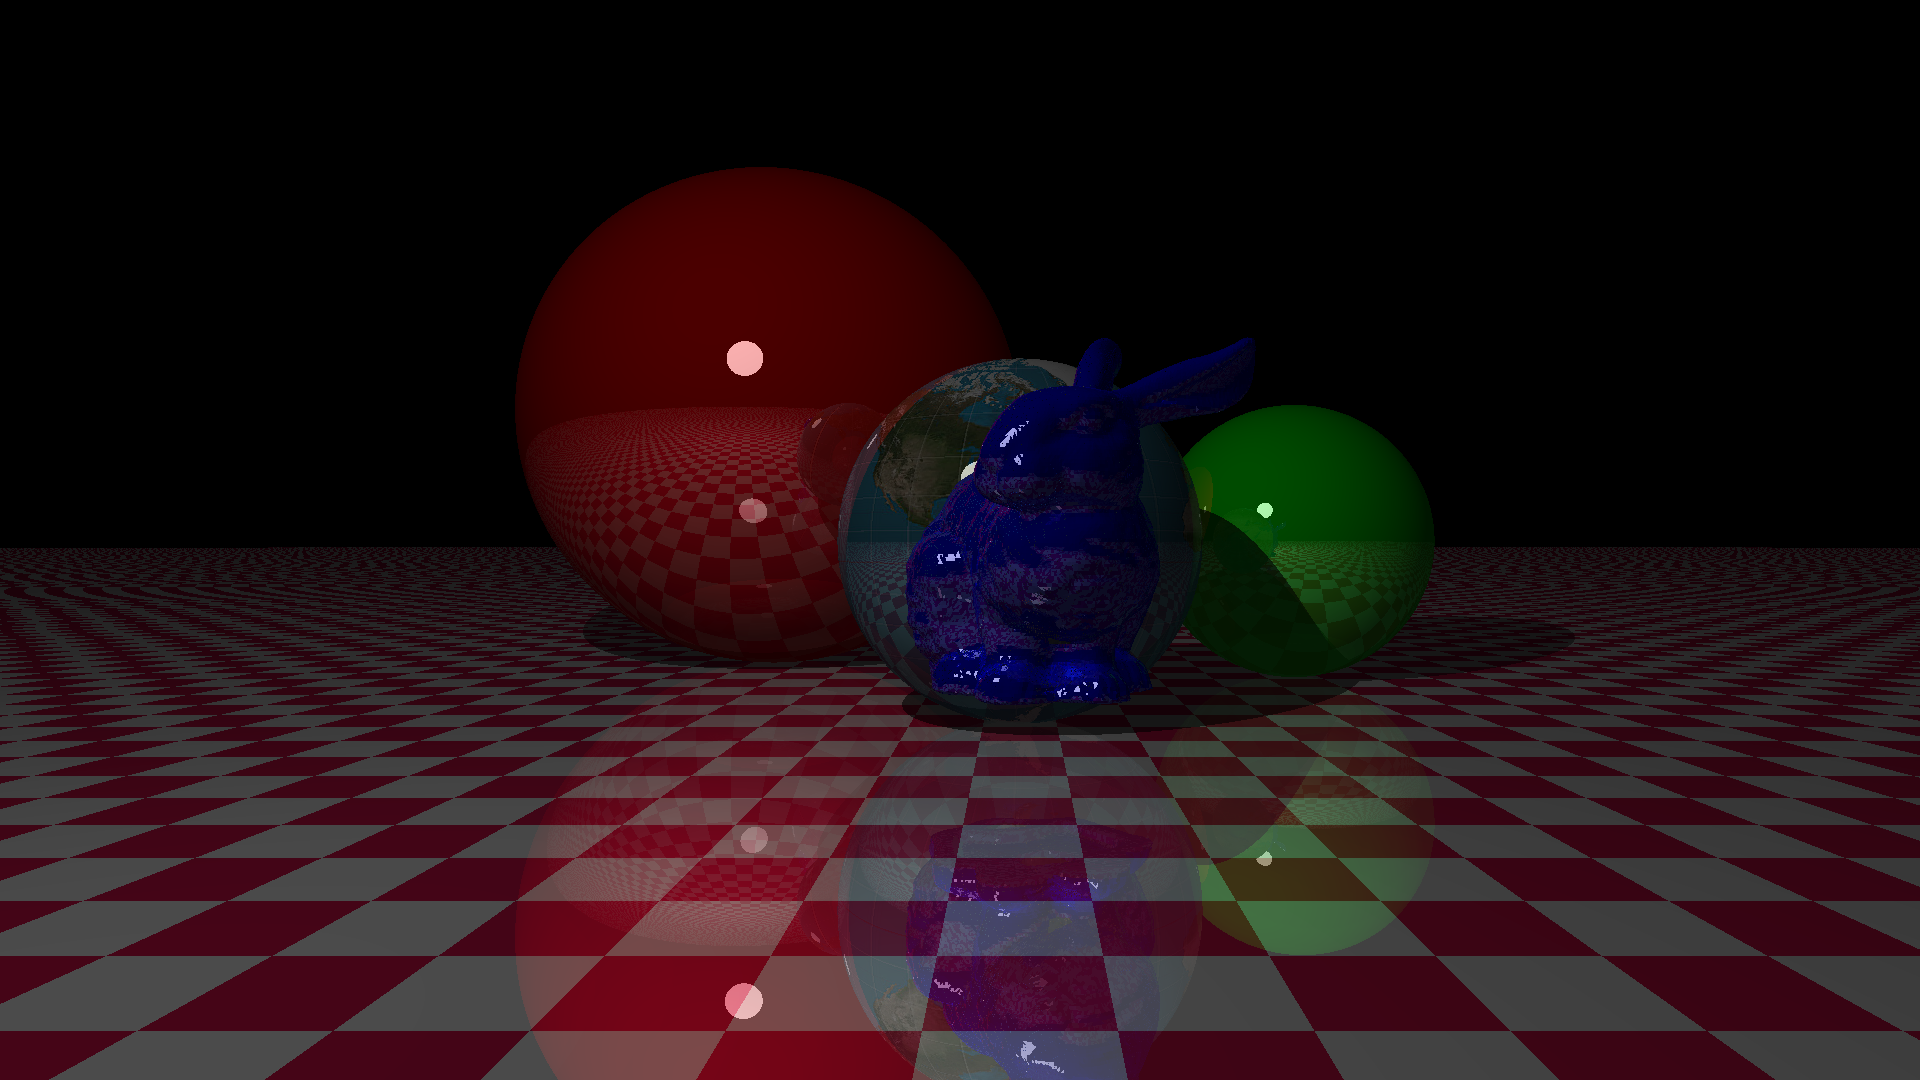
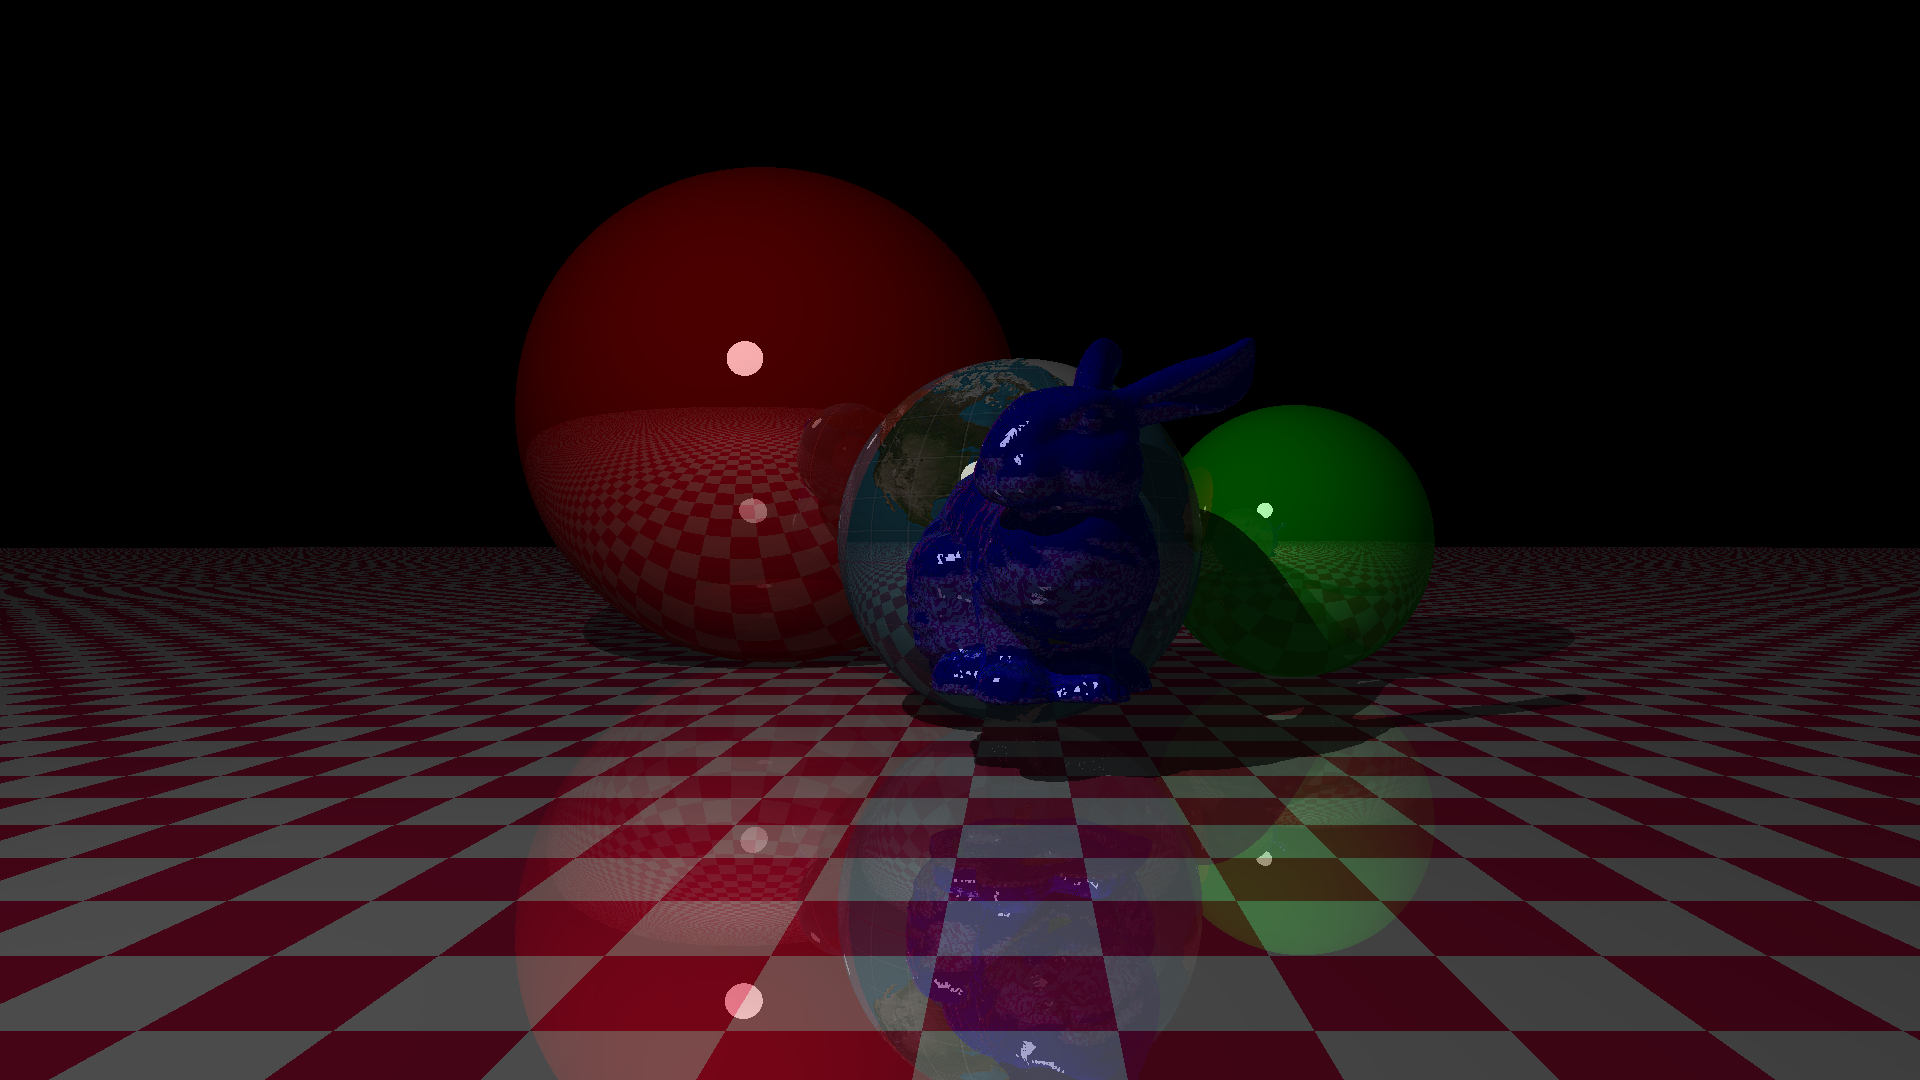
Bounding boxes are good

diff --git a/openmp/raytracing/lab10/lab10.c b/openmp/raytracing/lab10/lab10.c
@@ -58,6 +58,17 @@ typedef struct
 
 } Triangle;
 
+typedef struct
+{
+    // 2 for each face
+    Triangle* bbox;
+
+    Triangle* tris;
+
+    size_t tri_count;
+
+} Object;
+
 #define SPHERE_NUM 5
 
 Sphere spheres[SPHERE_NUM];
@@ -197,8 +208,8 @@ void init_globe()
     }
 }
 
-Triangle* triangles;
-size_t tri_count;
+Object* objects;
+size_t obj_count = 1;
 
 void init_triangles()
 {
@@ -235,6 +246,8 @@ void init_triangles()
         exit(-1);
     }
 
+    size_t tri_count;
+
     // Number of faces == Number of triangles
     fscanf(f_faces, "%lu\n", &tri_count);
 
@@ -260,8 +273,6 @@ void init_triangles()
 
     fscanf(f_normals, "%lu\n", &normal_count);
 
-    assert(normal_count == tri_count);
-
     for (size_t i = 0; i < tri_count; i++)
     {
         double x, y, z;
@@ -271,18 +282,40 @@ void init_triangles()
         normals[i] = (Vector3) { .x = x, .y = y, .z = z };
     }
 
-    triangles = malloc(sizeof(Triangle) * tri_count);
-
-    for (size_t i = 0; i < tri_count; i++)
+    Object obj = (Object)
     {
-        triangles[i] = (Triangle) {
+        .bbox = malloc(sizeof(Triangle) * 12),
+
+        .tris = malloc(sizeof(Triangle) * (tri_count - 12)),
+
+        .tri_count = tri_count - 12
+    };
+
+    for (size_t i = 0; i < 12; i++)
+    {
+        obj.bbox[i] = (Triangle) {
             .h      = (Color) { .r = 0, .g = 0, .b = 255 },
             .normal = normals[i]
         };
 
         for (size_t j = 0; j < 3; j++)
-            triangles[i].vertices[j] = verts[faces[3 * i + j]];
+            obj.bbox[i].vertices[j] = verts[faces[3 * i + j]];
     }
+
+    for (size_t i = 12; i < tri_count; i++)
+    {
+        obj.tris[i - 12] = (Triangle) {
+            .h      = (Color) { .r = 0, .g = 0, .b = 255 },
+            .normal = normals[i]
+        };
+
+        for (size_t j = 0; j < 3; j++)
+            obj.tris[i - 12].vertices[j] = verts[faces[3 * i + j]];
+    }
+
+    objects = malloc(sizeof(Object) * 1);
+
+    objects[0] = obj;
 }
 
 static inline Vector3 add_vec(Vector3 a, Vector3 b)
@@ -386,19 +419,13 @@ bool tri_cast(Vector3 origin, Vector3 ray_dir, Triangle tri, double* t, double m
 
     double alpha = (wu*vv - uv*wv)/denom;
 
-    // fprintf(stderr, "Alpha: %f\n", alpha);
-
-    if (alpha < 0)//  || alpha > 1)
+    if (alpha < 0 || alpha > 1)
         return false;
 
     double beta  = (wv*uu - uv*wu)/denom;
 
-//    fprintf(stderr, "Beta: %f\n", beta);
-
-    if (beta < 0)// || beta > 1)
+    if (beta < 0 || beta > 1)
         return false;
-
- //   fprintf(stderr, "alpha+beta: %f\n", alpha+beta);
 
     return alpha + beta <= 1;
 }
@@ -439,15 +466,32 @@ bool shadow(Vector3 intersection, Vector3 light_dir, Color* c)
         return true;
     }
 
-    for (size_t i = 0; i < tri_count; i++)
+    for (size_t i = 0; i < obj_count; i++)
     {
-        if (!tri_cast(intersection, light_dir, triangles[i], &t, 0)) continue;
+        bool hit_obj = false;
 
-        c -> r *= 1 - SHADOW;
-        c -> g *= 1 - SHADOW;
-        c -> b *= 1 - SHADOW;
+        for (size_t j = 0; j < 12; j++)
+        {
+            if (tri_cast(intersection, light_dir, objects[i].bbox[j], &t, INFINITY))
+            {
+                hit_obj = true;
+                break;
+            }
+        }
 
-        return true;
+        if (!hit_obj)
+            continue;
+
+        for (size_t j = 0; j < objects[i].tri_count; j++)
+        {
+            if (!tri_cast(intersection, light_dir, objects[i].tris[j], &t, INFINITY)) continue;
+
+            c -> r *= 1 - SHADOW;
+            c -> g *= 1 - SHADOW;
+            c -> b *= 1 - SHADOW;
+
+            return true;
+        }
     }
 
     return false;
@@ -481,8 +525,9 @@ Color get_color(Vector3 origin, Vector3 ray_dir, int depth, int max_depth)
     double min_t = INFINITY;
     double t = 0;
 
-    int sphere_ind = 0;
-    int triangle_ind = 0;
+    size_t sphere_ind = 0;
+    size_t obj_ind = 0;
+    size_t triangle_ind = 0;
 
     for (size_t i = 0; i < SPHERE_NUM; i++)
     {
@@ -498,16 +543,34 @@ Color get_color(Vector3 origin, Vector3 ray_dir, int depth, int max_depth)
         }
     }
 
-    for (size_t i = 0; i < tri_count; i++)
+    for (size_t i = 0; i < obj_count; i++)
     {
-        if (tri_cast(origin, ray_dir, triangles[i], &t, min_t))
+        bool hit_obj = false;
+
+        for (size_t j = 0; j < 12; j++)
         {
+            if (tri_cast(origin, ray_dir, objects[i].bbox[j], &t, min_t))
+            {
+                hit_obj = true;
+                break;
+            }
+        }
+
+        if (!hit_obj)
+            continue;
+
+        for (size_t j = 0; j < objects[i].tri_count; j++)
+        {
+            if (!tri_cast(origin, ray_dir, objects[i].tris[j], &t, min_t)) continue;
+
             min_t = t;
 
-            triangle_ind = i;
-            sphere_ind = -1;
+            obj_ind = i;
+            triangle_ind = j;
 
-            c = triangles[i].h;
+            sphere_ind = (size_t) -1;
+
+            c = objects[i].tris[j].h;
         }
     }
 
@@ -530,9 +593,9 @@ Color get_color(Vector3 origin, Vector3 ray_dir, int depth, int max_depth)
     Vector3 light_dir = create_ray(intersection, light);
 
     // Surface normal
-    Vector3 gradient = sphere_ind != -1 
+    Vector3 gradient = sphere_ind != (size_t) -1 
         ? sub_vec(intersection, spheres[sphere_ind].c) 
-        : triangles[triangle_ind].normal;
+        : objects[obj_ind].tris[triangle_ind].normal;
 
     normalize(&gradient);
 
